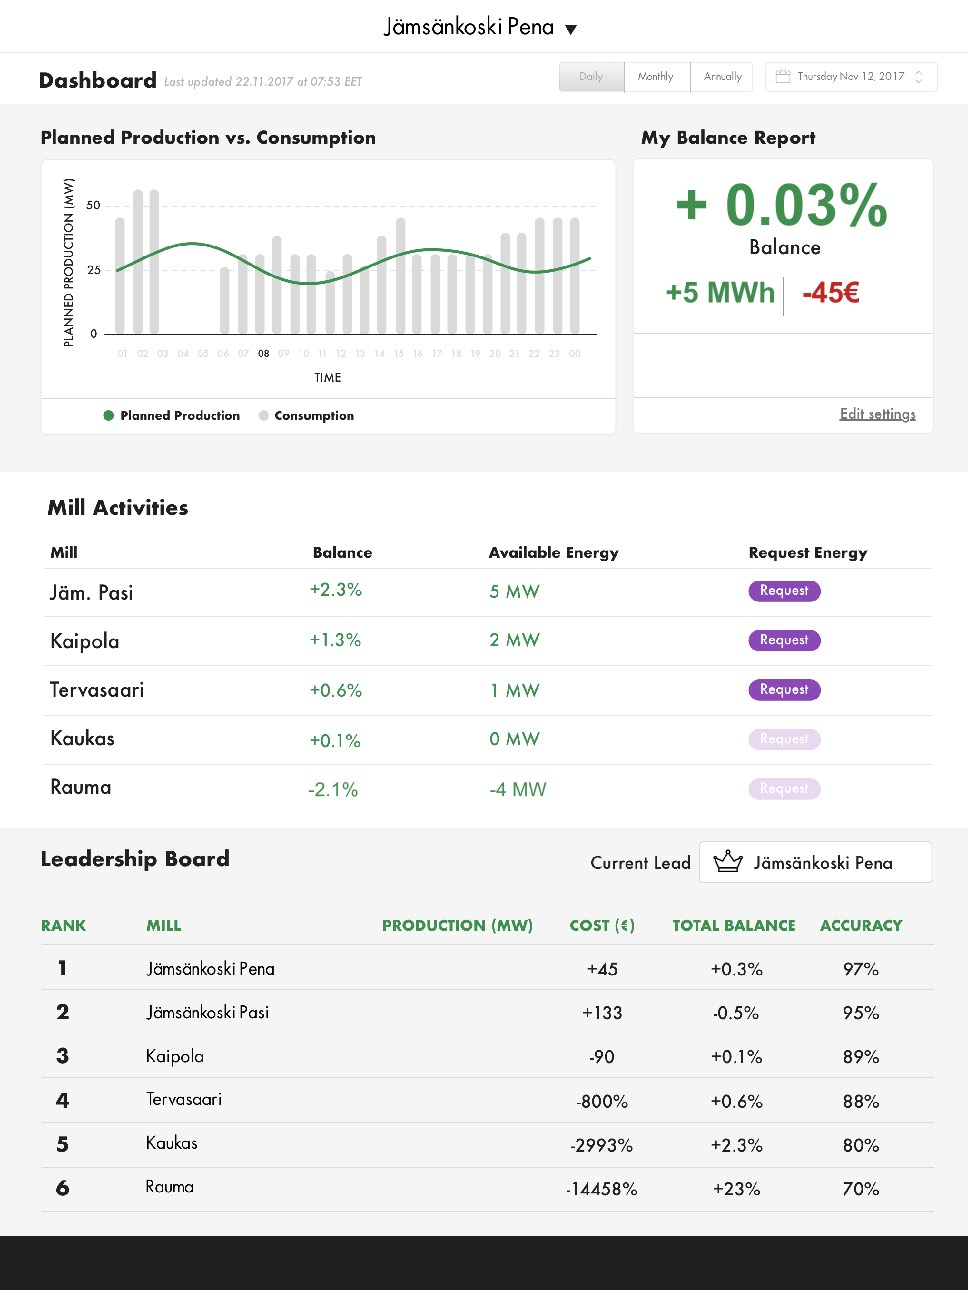
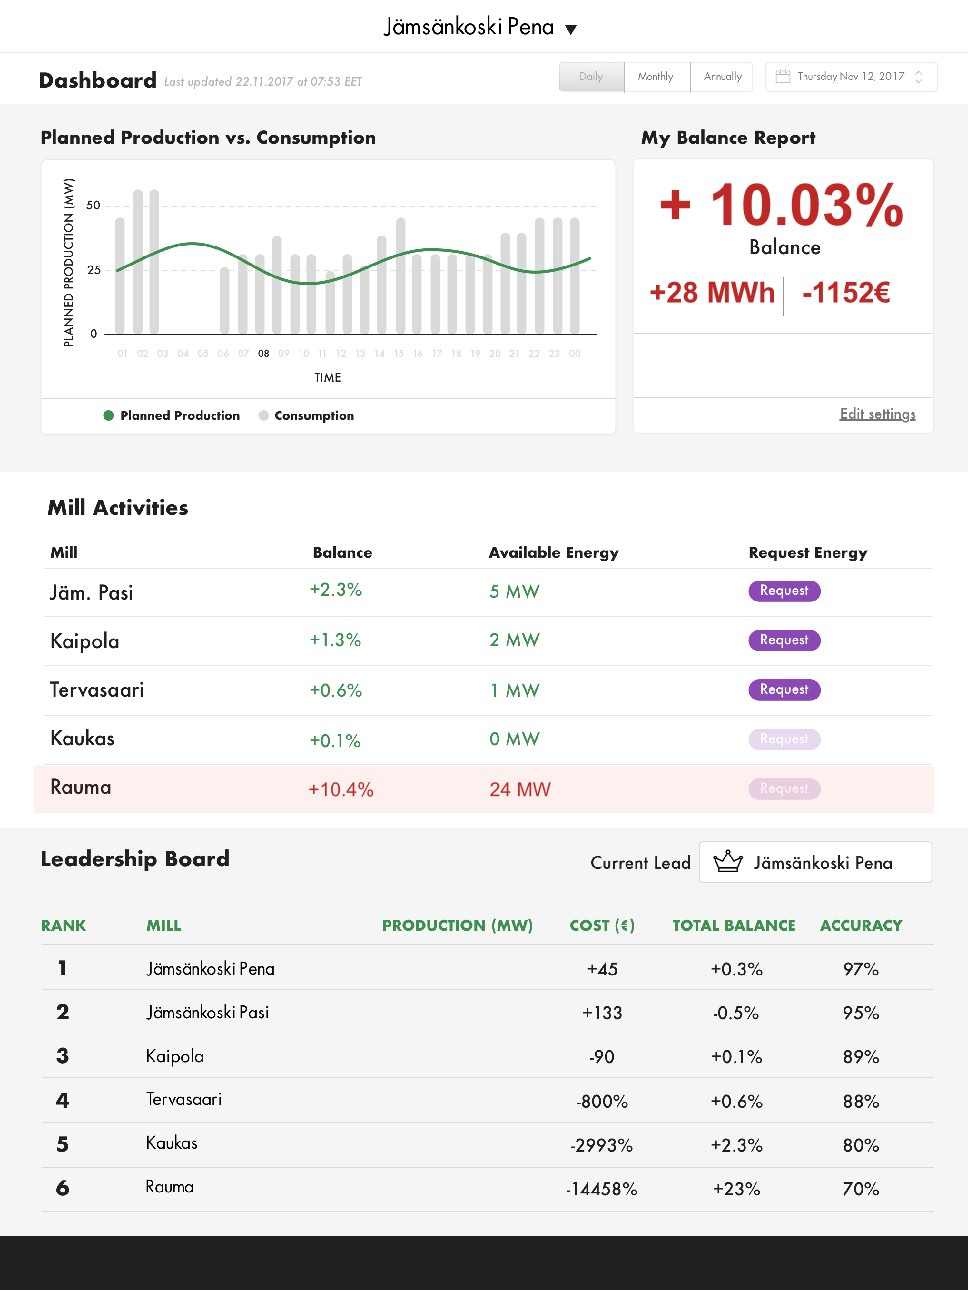
update some formats

diff --git a/public/index.hyperesources/index_hype_generated_script.js b/public/index.hyperesources/index_hype_generated_script.js
@@ -3,5 +3,5 @@
 (function(){(function k(){function l(a,b,d){var c=!1;null==window[a]&&(null==window[b]?(window[b]=[],window[b].push(k),a=document.getElementsByTagName("head")[0],b=document.createElement("script"),c=h,false==!0&&(c=""),b.type="text/javascript",b.src=c+"/"+d,a.appendChild(b)):window[b].push(k),c=!0);return c}var h="index.hyperesources",c="index",e="index_hype_container";if(false==!1)try{for(var f=document.getElementsByTagName("script"),
 a=0;a<f.length;a++){var b=f[a].src,d=null!=b?b.indexOf("index_hype_generated_script.js"):-1;if(-1!=d){h=b.substr(0,d-1);break}}}catch(n){}if(false==!1&&(a=navigator.userAgent.match(/MSIE (\d+\.\d+)/),a=parseFloat(a&&a[1])||null,a=l("HYPE_578","HYPE_dtl_578",!0==(null!=a&&10>a||false==!0)?"HYPE-578.full.min.js":"HYPE-578.thin.min.js"),false==!0&&(a=a||l("HYPE_w_578","HYPE_wdtl_578","HYPE-578.waypoints.min.js")),a))return;f=window.HYPE.documents;
 if(null!=f[c]){b=1;a=c;do c=""+a+"-"+b++;while(null!=f[c]);d=document.getElementsByTagName("div");b=!1;for(a=0;a<d.length;a++)if(d[a].id==e&&null==d[a].getAttribute("HYP_dn")){var b=1,g=e;do e=""+g+"-"+b++;while(null!=document.getElementById(e));d[a].id=e;b=!0;break}if(!1==b)return}b=[];b=[];d={};g={};for(a=0;a<b.length;a++)try{g[b[a].identifier]=b[a].name,d[b[a].name]=eval("(function(){return "+b[a].source+"})();")}catch(m){window.console&&window.console.log(m),d[b[a].name]=
-function(){}}a=new HYPE_578(c,e,{"3":{p:1,n:"Desktop%20HD%20-%20updated_2x.jpg",g:"46",o:true,t:"@2x"},"1":{p:1,n:"Desktop%20HD-new_2x.jpg",g:"33",o:true,t:"@2x"},"-2":{n:"blank.gif"},"-1":{n:"PIE.htc"},"2":{p:1,n:"Desktop%20HD%20-%20updated.jpg",g:"46",o:true,t:"@1x"},"0":{p:1,n:"Desktop%20HD-new.jpg",g:"33",o:true,t:"@1x"}},h,[],d,[{n:"\u540d\u79f0\u672a\u8a2d\u5b9a\u306e\u30b7\u30fc\u30f3",o:"1",X:[0]}],[{o:"12",p:"600px",cA:false,Y:1200,Z:1600,L:[],c:"#FFFFFF",bY:1,d:1200,U:{},T:{kTimelineDefaultIdentifier:{i:"kTimelineDefaultIdentifier",n:"\u30e1\u30a4\u30f3\u30bf\u30a4\u30e0\u30e9\u30a4\u30f3",z:18,b:[],a:[{f:"c",y:2,z:0.29,i:"e",e:0,s:1,o:"50"},{y:2.29,i:"e",s:0,z:0,o:"50",f:"c"},{f:"c",y:3,z:0.29,i:"e",e:0,s:1,o:"51"},{y:3.29,i:"e",s:0,z:0,o:"51",f:"c"},{f:"c",y:4,z:0.29,i:"e",e:0,s:1,o:"48"},{y:4.29,i:"e",s:0,z:0,o:"48",f:"c"},{f:"c",y:11.13,z:0.17,i:"w",e:"24 MW",s:"-4 MW",o:"57"},{f:"c",y:11.13,z:0.17,i:"w",e:"+10.4%",s:"-2.1%",o:"56"},{f:"c",y:11.13,z:0.17,i:"w",e:"+28 MWh",s:"+5 MWh",o:"54"},{f:"c",y:11.13,z:0.17,i:"G",e:"#D0021A",s:"#029247",o:"56"},{f:"c",y:11.13,z:0.17,i:"G",e:"#D0021A",s:"#029247",o:"57"},{f:"c",y:11.13,z:0.17,i:"w",e:"+ 10.03%",s:"+ 0.03%<br>",o:"53"},{f:"c",y:11.13,z:0.17,i:"G",e:"#D0021A",s:"#029247",o:"53"},{f:"c",y:11.13,z:0.17,i:"G",e:"#D0021A",s:"#029247",o:"54"},{f:"c",y:11.13,z:0.17,i:"w",e:"-1152\u20ac",s:"-45\u20ac",o:"55"},{y:12,i:"w",s:"24 MW",z:0,o:"57",f:"c"},{y:12,i:"w",s:"+28 MWh",z:0,o:"54",f:"c"},{y:12,i:"G",s:"#D0021A",z:0,o:"54",f:"c"},{y:12,i:"w",s:"+ 10.03%",z:0,o:"53",f:"c"},{y:12,i:"G",s:"#D0021A",z:0,o:"56",f:"c"},{y:12,i:"w",s:"+10.4%",z:0,o:"56",f:"c"},{y:12,i:"G",s:"#D0021A",z:0,o:"57",f:"c"},{y:12,i:"G",s:"#D0021A",z:0,o:"53",f:"c"},{y:12,i:"w",s:"-1152\u20ac",z:0,o:"55",f:"c"},{f:"c",y:12,z:0.15,i:"e",e:1,s:0,o:"49"},{f:"c",y:12.15,z:0.15,i:"e",e:0,s:1,o:"49"},{f:"c",y:13,z:0.15,i:"e",e:1,s:0,o:"49"},{f:"c",y:13.15,z:0.15,i:"e",e:0,s:1,o:"49"},{f:"c",y:14,z:0.15,i:"e",e:1,s:0,o:"49"},{f:"c",y:14.15,z:0.15,i:"e",e:0,s:1,o:"49"},{f:"c",y:15,z:0.15,i:"e",e:1,s:0,o:"49"},{f:"c",y:15.15,z:0.15,i:"e",e:0,s:1,o:"49"},{f:"c",p:2,y:16,z:2,i:"ActionHandler",e:{a:[{b:"kTimelineDefaultIdentifier",symbolOid:"11",p:7}]},s:{a:[{i:12,b:"kTimelineDefaultIdentifier",p:9,symbolOid:"11"}]},o:"kTimelineDefaultIdentifier"},{y:16,i:"e",s:0,z:0,o:"49",f:"c"},{f:"c",p:2,y:18,z:0,i:"ActionHandler",s:{a:[{b:"kTimelineDefaultIdentifier",symbolOid:"11",p:7}]},o:"kTimelineDefaultIdentifier"}],f:30}},bZ:180,O:["58","52","50","53","54","55","51","49","56","57","48"],n:"\u30c7\u30b9\u30af\u30c8\u30c3\u30d7","_":0,v:{"52":{h:"33",p:"no-repeat",x:"visible",a:-250,q:"100% 100%",b:0,j:"absolute",dB:"img",z:2,k:"div",c:1698,d:1620,r:"none"},"55":{G:"#D0021A",aU:8,c:73,aV:8,d:42,r:"inline",s:"Arial,Helvetica,Sans-Serif",t:36,Z:"break-word",v:"bold",w:"-45\u20ac",j:"absolute",x:"visible",k:"div",y:"preserve",z:7,aS:8,aT:8,a:986,b:334},"50":{c:1198,d:429,I:"None",e:1,J:"None",K:"None",g:"#F5F5F5",L:"None",M:0,w:"",N:0,A:"#D8DDE4",x:"visible",j:"absolute",B:"#D8DDE4",k:"div",O:0,C:"#D8DDE4",z:13,P:0,D:"#D8DDE4",a:2,b:131},"58":{h:"46",p:"no-repeat",x:"visible",a:-251,q:"100% 100%",b:0,j:"absolute",dB:"img",z:3,k:"div",c:1699,d:1621,r:"inline"},"53":{G:"#029247",aU:8,c:347,aV:8,d:82,r:"inline",s:"Arial,Helvetica,Sans-Serif",t:72,Z:"break-word",v:"bold",w:"+ 0.03%<br>",j:"absolute",x:"visible",k:"div",y:"preserve",z:5,aS:8,aT:8,a:788,F:"center",b:205},"48":{c:1198,d:480,I:"None",e:1,J:"None",K:"None",g:"#F5F5F5",L:"None",M:0,w:"",N:0,A:"#D8DDE4",x:"visible",j:"absolute",B:"#D8DDE4",k:"div",O:0,C:"#D8DDE4",z:11,P:0,D:"#D8DDE4",a:2,b:1037},"56":{G:"#029247",aU:8,c:83,aV:8,d:28,r:"inline",s:"Arial,Helvetica,Sans-Serif",t:24,Z:"break-word",v:"normal",w:"-2.1%",j:"absolute",x:"visible",k:"div",y:"preserve",z:8,aS:8,aT:8,a:374,b:957},"51":{c:1198,d:444,I:"None",e:1,J:"None",K:"None",g:"#F5F5F5",L:"None",M:0,w:"",N:0,A:"#D8DDE4",x:"visible",j:"absolute",B:"#D8DDE4",k:"div",O:0,C:"#D8DDE4",z:12,P:0,D:"#D8DDE4",a:1,b:584},"54":{G:"#029247",aU:8,c:159,aV:8,d:42,r:"inline",s:"Arial,Helvetica,Sans-Serif",t:36,Z:"break-word",v:"bold",w:"+5 MWh",j:"absolute",x:"visible",k:"div",y:"preserve",z:6,aS:8,aT:8,a:795,F:"right",b:334},"49":{c:1116,d:59,I:"None",e:0,J:"None",K:"None",g:"#FF2600",L:"None",aP:"pointer",M:0,N:0,A:"#F90000",x:"visible",aA:{a:[{i:17,b:"kTimelineDefaultIdentifier",p:9,symbolOid:"11"}]},O:0,j:"absolute",k:"div",dB:"button",z:14,C:"#F90000",D:"#F90000",B:"#F90000",P:0,a:42,b:949},"57":{G:"#029247",aU:8,c:85,aV:8,d:28,r:"inline",s:"Arial,Helvetica,Sans-Serif",t:24,Z:"break-word",v:"normal",w:"-4 MW",j:"absolute",x:"visible",k:"div",y:"preserve",z:9,aS:8,aT:8,a:599,b:957}}}],{},g,{},null,false,true,-1,true,true,false,true);f[c]=a.API;document.getElementById(e).setAttribute("HYP_dn",
+function(){}}a=new HYPE_578(c,e,{"3":{p:1,n:"Desktop%20HD%20-%20updated_2x.jpg",g:"46",o:true,t:"@2x"},"1":{p:1,n:"Desktop%20HD-new_2x.jpg",g:"33",o:true,t:"@2x"},"-2":{n:"blank.gif"},"-1":{n:"PIE.htc"},"2":{p:1,n:"Desktop%20HD%20-%20updated.jpg",g:"46",o:true,t:"@1x"},"0":{p:1,n:"Desktop%20HD-new.jpg",g:"33",o:true,t:"@1x"}},h,[],d,[{n:"\u540d\u79f0\u672a\u8a2d\u5b9a\u306e\u30b7\u30fc\u30f3",o:"1",X:[0]}],[{o:"12",p:"600px",cA:false,Y:1200,Z:1600,L:[],c:"#FFFFFF",bY:1,d:1200,U:{},T:{kTimelineDefaultIdentifier:{i:"kTimelineDefaultIdentifier",n:"\u30e1\u30a4\u30f3\u30bf\u30a4\u30e0\u30e9\u30a4\u30f3",z:18,b:[],a:[{f:"c",y:2,z:0.29,i:"e",e:0,s:1,o:"50"},{y:2.29,i:"e",s:0,z:0,o:"50",f:"c"},{f:"c",y:3,z:0.29,i:"e",e:0,s:1,o:"51"},{y:3.29,i:"e",s:0,z:0,o:"51",f:"c"},{f:"c",y:4,z:0.29,i:"e",e:0,s:1,o:"48"},{y:4.29,i:"e",s:0,z:0,o:"48",f:"c"},{f:"c",y:11.13,z:0.17,i:"w",e:"24 MW",s:"-4 MW",o:"57"},{f:"c",y:11.13,z:0.17,i:"w",e:"+10.4%",s:"-2.1%",o:"56"},{f:"c",y:11.13,z:0.17,i:"w",e:"+28 MWh",s:"+5 MWh",o:"54"},{f:"c",y:11.13,z:0.17,i:"G",e:"#D0021A",s:"#029247",o:"56"},{f:"c",y:11.13,z:0.17,i:"G",e:"#D0021A",s:"#029247",o:"57"},{f:"c",y:11.13,z:0.17,i:"w",e:"+ 10.03%",s:"+ 0.03%<br>",o:"53"},{f:"c",y:11.13,z:0.17,i:"G",e:"#D0021A",s:"#029247",o:"53"},{f:"c",y:11.13,z:0.17,i:"G",e:"#D0021A",s:"#029247",o:"54"},{f:"c",y:11.13,z:0.17,i:"w",e:"-1152\u20ac",s:"-45\u20ac",o:"55"},{y:12,i:"w",s:"24 MW",z:0,o:"57",f:"c"},{y:12,i:"w",s:"+28 MWh",z:0,o:"54",f:"c"},{y:12,i:"G",s:"#D0021A",z:0,o:"54",f:"c"},{y:12,i:"w",s:"+ 10.03%",z:0,o:"53",f:"c"},{y:12,i:"G",s:"#D0021A",z:0,o:"56",f:"c"},{y:12,i:"w",s:"+10.4%",z:0,o:"56",f:"c"},{y:12,i:"G",s:"#D0021A",z:0,o:"57",f:"c"},{y:12,i:"G",s:"#D0021A",z:0,o:"53",f:"c"},{y:12,i:"w",s:"-1152\u20ac",z:0,o:"55",f:"c"},{f:"c",y:12,z:0.15,i:"e",e:1,s:0,o:"49"},{f:"c",y:12.15,z:0.15,i:"e",e:0,s:1,o:"49"},{f:"c",y:13,z:0.15,i:"e",e:1,s:0,o:"49"},{f:"c",y:13.15,z:0.15,i:"e",e:0,s:1,o:"49"},{f:"c",y:14,z:0.15,i:"e",e:1,s:0,o:"49"},{f:"c",y:14.15,z:0.15,i:"e",e:0,s:1,o:"49"},{f:"c",y:15,z:0.15,i:"e",e:1,s:0,o:"49"},{f:"c",y:15.15,z:0.15,i:"e",e:0,s:1,o:"49"},{f:"c",p:2,y:16,z:2,i:"ActionHandler",e:{a:[{b:"kTimelineDefaultIdentifier",symbolOid:"11",p:7}]},s:{a:[{i:12,b:"kTimelineDefaultIdentifier",p:9,symbolOid:"11"}]},o:"kTimelineDefaultIdentifier"},{y:16,i:"e",s:0,z:0,o:"49",f:"c"},{f:"c",p:2,y:18,z:0,i:"ActionHandler",s:{a:[{b:"kTimelineDefaultIdentifier",symbolOid:"11",p:7}]},o:"kTimelineDefaultIdentifier"}],f:30}},bZ:180,O:["58","52","50","53","54","55","51","49","56","57","48"],n:"\u30c7\u30b9\u30af\u30c8\u30c3\u30d7","_":0,v:{"52":{h:"33",p:"no-repeat",x:"visible",a:-250,q:"100% 100%",b:0,j:"absolute",dB:"img",z:2,k:"div",c:1698,d:1620,r:"none"},"55":{G:"#D0021A",aU:8,c:143,aV:8,d:42,r:"inline",s:"Arial,Helvetica,Sans-Serif",t:36,Z:"break-word",v:"bold",w:"-45\u20ac",j:"absolute",x:"visible",k:"div",y:"preserve",z:7,aS:8,aT:8,a:986,b:334},"50":{c:1198,d:429,I:"None",e:1,J:"None",K:"None",g:"#F5F5F5",L:"None",M:0,w:"",N:0,A:"#D8DDE4",x:"visible",j:"absolute",B:"#D8DDE4",k:"div",O:0,C:"#D8DDE4",z:13,P:0,D:"#D8DDE4",a:2,b:131},"58":{h:"46",p:"no-repeat",x:"visible",a:-251,q:"100% 100%",b:0,j:"absolute",dB:"img",z:3,k:"div",c:1699,d:1621,r:"inline"},"53":{G:"#029247",aU:8,c:347,aV:8,d:82,r:"inline",s:"Arial,Helvetica,Sans-Serif",t:72,Z:"break-word",v:"bold",w:"+ 0.03%<br>",j:"absolute",x:"visible",k:"div",y:"preserve",z:5,aS:8,aT:8,a:788,F:"center",b:205},"48":{c:1198,d:480,I:"None",e:1,J:"None",K:"None",g:"#F5F5F5",L:"None",M:0,w:"",N:0,A:"#D8DDE4",x:"visible",j:"absolute",B:"#D8DDE4",k:"div",O:0,C:"#D8DDE4",z:11,P:0,D:"#D8DDE4",a:2,b:1037},"56":{G:"#029247",aU:8,c:83,aV:8,d:28,r:"inline",s:"Arial,Helvetica,Sans-Serif",t:24,Z:"break-word",v:"normal",w:"-2.1%",j:"absolute",x:"visible",k:"div",y:"preserve",z:8,aS:8,aT:8,a:374,b:957},"51":{c:1198,d:444,I:"None",e:1,J:"None",K:"None",g:"#F5F5F5",L:"None",M:0,w:"",N:0,A:"#D8DDE4",x:"visible",j:"absolute",B:"#D8DDE4",k:"div",O:0,C:"#D8DDE4",z:12,P:0,D:"#D8DDE4",a:1,b:584},"54":{G:"#029247",aU:8,c:159,aV:8,d:42,r:"inline",s:"Arial,Helvetica,Sans-Serif",t:36,Z:"break-word",v:"bold",w:"+5 MWh",j:"absolute",x:"visible",k:"div",y:"preserve",z:6,aS:8,aT:8,a:795,F:"right",b:334},"49":{c:1116,d:59,I:"None",e:0,J:"None",K:"None",g:"#FF2600",L:"None",aP:"pointer",M:0,N:0,A:"#F90000",x:"visible",aA:{a:[{i:17,b:"kTimelineDefaultIdentifier",p:9,symbolOid:"11"}]},O:0,j:"absolute",k:"div",dB:"button",z:14,C:"#F90000",D:"#F90000",B:"#F90000",P:0,a:42,b:949},"57":{G:"#029247",aU:8,c:85,aV:8,d:28,r:"inline",s:"Arial,Helvetica,Sans-Serif",t:24,Z:"break-word",v:"normal",w:"-4 MW",j:"absolute",x:"visible",k:"div",y:"preserve",z:9,aS:8,aT:8,a:599,b:957}}}],{},g,{},null,false,true,-1,true,true,false,true);f[c]=a.API;document.getElementById(e).setAttribute("HYP_dn",
 c);a.z_o(this.body)})();})();

diff --git a/public/index.html b/public/index.html
@@ -24,7 +24,7 @@
 	<!-- copy these lines to your document: -->
 
 	<div id="index_hype_container" style="margin:auto;position:relative;width:1200px;height:1600px;overflow:hidden;">
-		<script type="text/javascript" charset="utf-8" src="index.hyperesources/index_hype_generated_script.js?87923"></script>
+		<script type="text/javascript" charset="utf-8" src="index.hyperesources/index_hype_generated_script.js?18824"></script>
 	</div>
 
 	<!-- end copy -->
